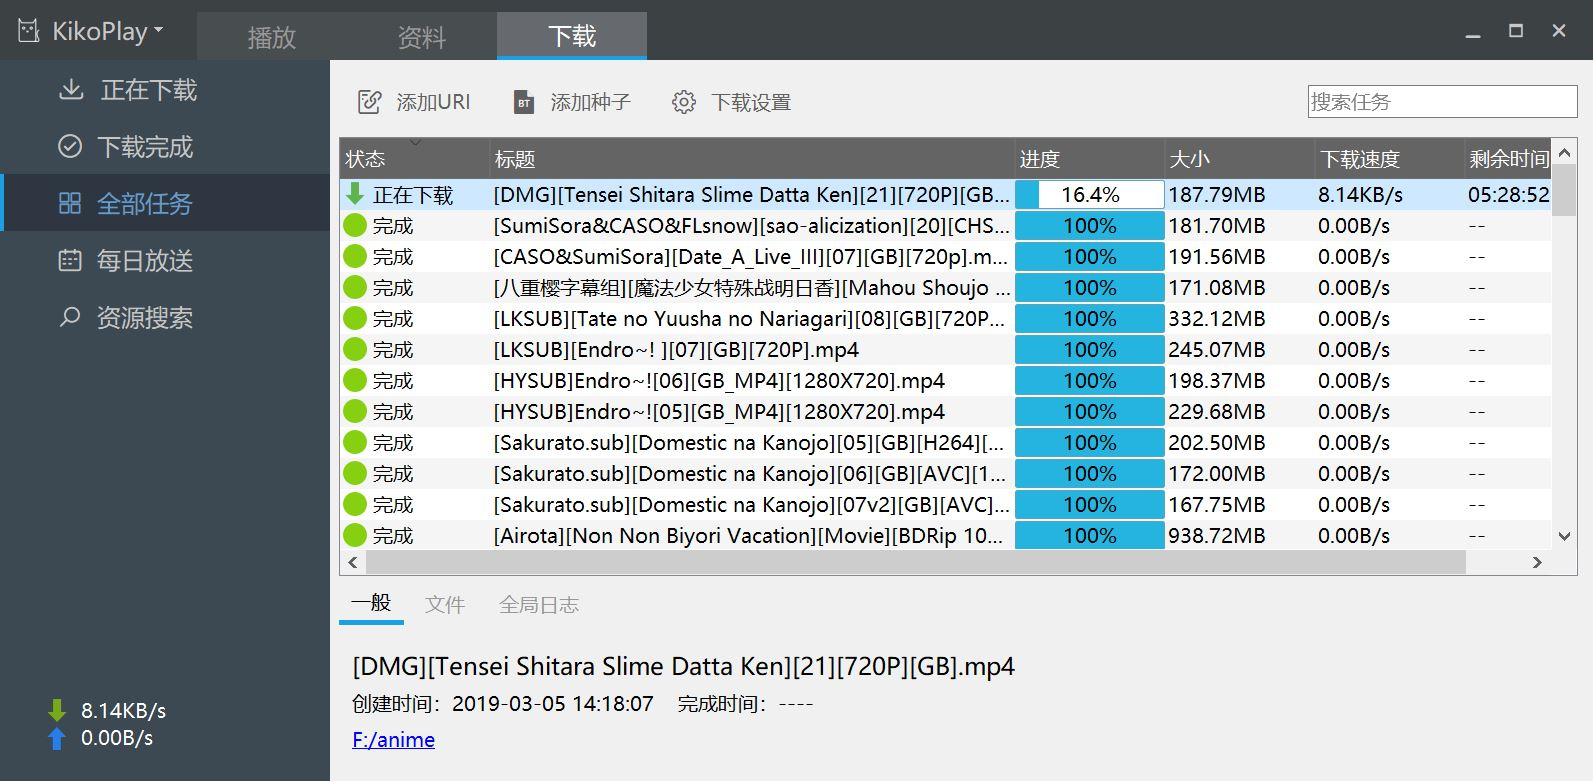
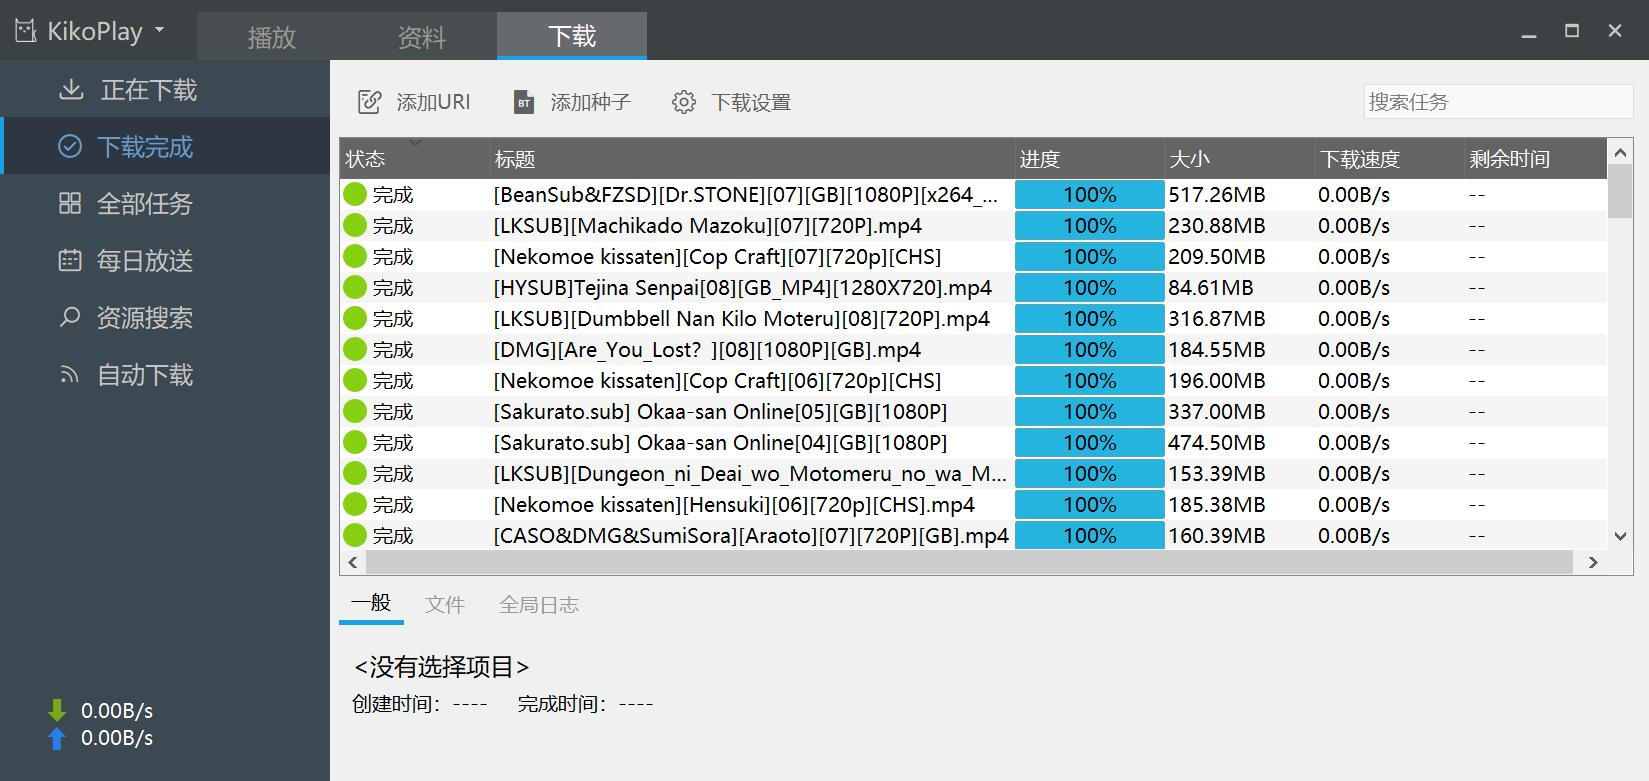
update

diff --git a/README.md b/README.md
@@ -3,17 +3,18 @@
 全功能弹幕播放器
 
 ## 特性
- - opengl渲染，流畅的弹幕体验
- - libmpv播放内核，支持多种媒体文件格式，支持mpv灵活的参数设置
- - 树形播放列表，随意组织你的番剧
+ - OpenGL渲染，流畅的弹幕体验
+ - libmpv播放内核，支持多种媒体文件格式，保留mpv灵活的参数设置
+ - 树形播放列表，可随意组织你的番剧
  - 支持所有主流视频网站弹幕搜索下载：AcFun,Bilibili,Tucao,5dm,巴哈姆特,爱奇艺,优酷,腾讯视频,PPTV
- - 灵活的弹幕屏蔽规则设定，支持自动合并相似弹幕，提升观看体验
+ - 灵活的弹幕屏蔽规则设定，支持自动合并相似弹幕、弹幕事件分析标注，提升观看体验
  - 支持批量管理弹幕池，支持弹幕时间轴调整，更好地处理本地视频和网站上的视频时长不一致的情况
  - 资料库可以记录并组织你看过的番剧，同时可以从Bangumi上获取详细信息
  - 局域网服务，你可以通过网页在其他设备上观看，现在还有[Android端](https://github.com/Protostars/KikoPlay-Android-LAN)可供选择
  - 集成aria2下载功能
  - 每日放送功能：可快速浏览新番列表并添加关注
  - 基于Lua脚本的资源搜索功能，你也可以为KikoPlay编写脚本，[脚本仓库](https://github.com/Protostars/KikoPlayScript)
+ - 支持自动下载，通过设置规则，KikoPlay可自动搜索下载资源
  - 独特的KikoPlay资源代码和弹幕池代码，可直接分享包含弹幕池信息的资源链接
  - .........
 
@@ -108,5 +109,5 @@ dx_8820832#yeah.net（#→@），或者加QQ群874761809反馈
 ![](screenshot/KikoPlay2.jpg)
 ![](screenshot/KikoPlay3.jpg)
 ![](screenshot/KikoPlay4.jpg)
-![](screenshot/KikoPlay5.jpg)
+![](screenshot/KikoPlay5.png)
 ![](screenshot/KikoPlay_web.jpg)
